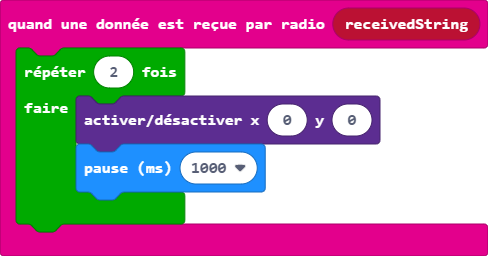
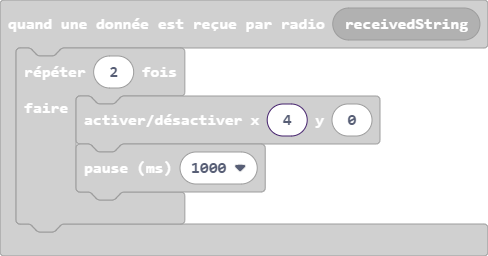
Wrong LED

diff --git a/main.ts b/main.ts
@@ -7,7 +7,7 @@ radio.onReceivedNumber(function (receivedNumber) {
 })
 radio.onReceivedString(function (receivedString) {
     for (let index = 0; index < 2; index++) {
-        led.toggle(0, 0)
+        led.toggle(4, 0)
         basic.pause(1000)
     }
 })
